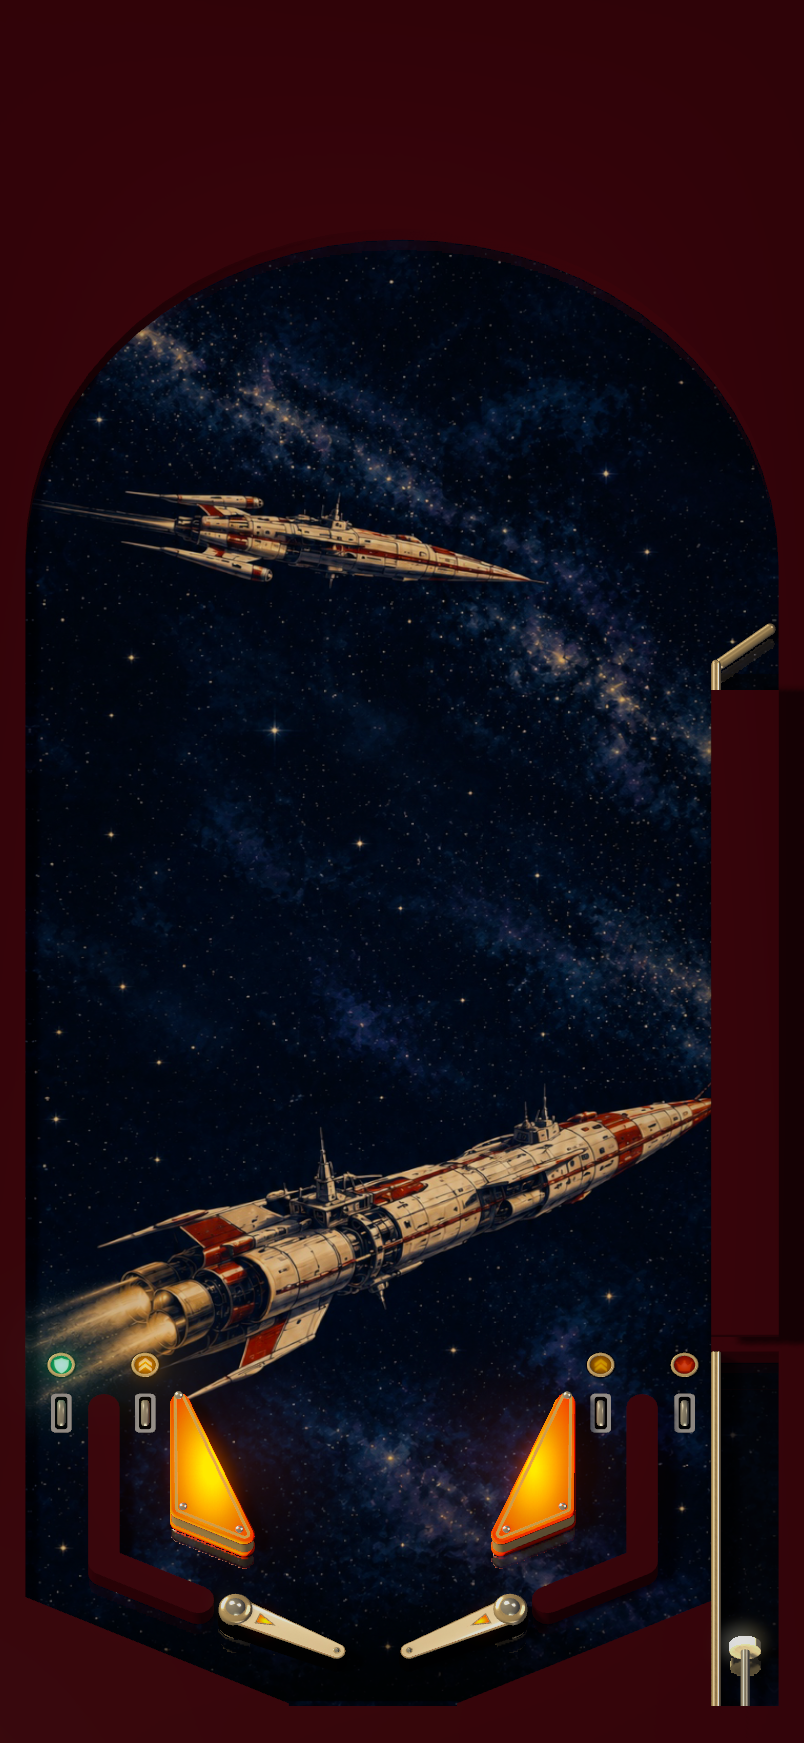
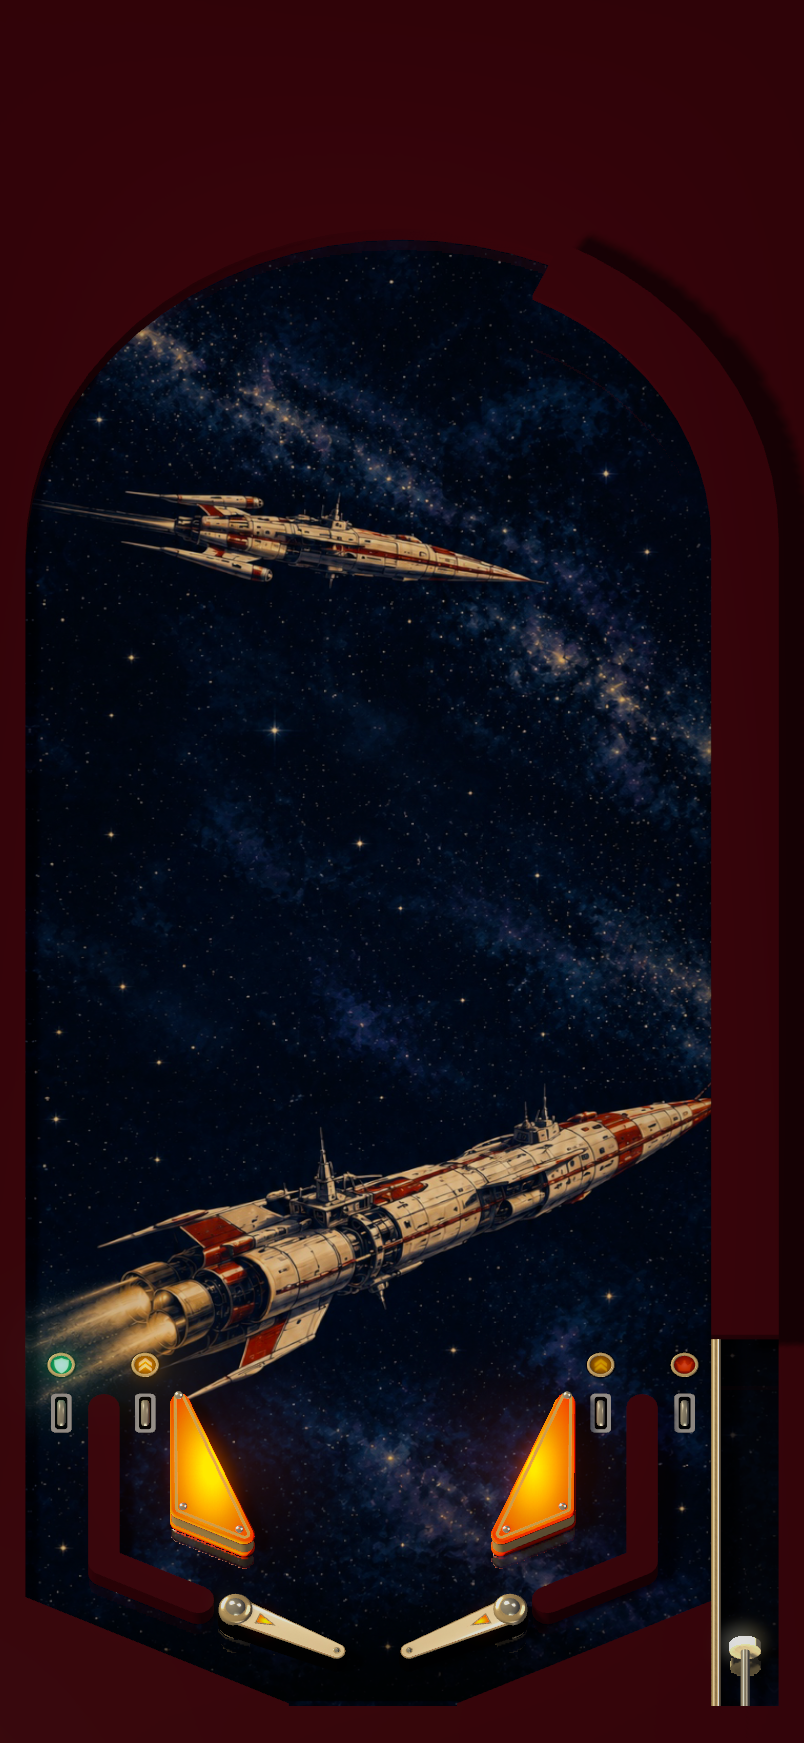
Run the tunnel roof round the arch, over an open lane
The cabinet cover's cutout now includes the whole shooter lane, so nothing
sits at wall height where the ball runs; only the roof covers it, at ball
height. The roof is one plate drawn with arcs: up the lane, then round the
arch to 65 degrees, as Space Cadet's launch cover does. Cover outlines drop
the corners that arcs repeat, so a whole circle is a stencil too.

Changed region(s): [[0.653, 0.1239, 1.0, 0.4028], [0.8706, 0.7435, 0.9639, 0.8055]]

diff --git a/tools/scene/compile_scenes.py b/tools/scene/compile_scenes.py
@@ -165,6 +165,17 @@ def walls_part(table, centred, skip=()):
     return data
 
 
+def closed_outline(points):
+    """An outline without repeated corners, as arcs that meet their neighbours or close a circle leave."""
+    out = []
+    for p in points:
+        if not out or math.dist(out[-1], p) > 1e-7:
+            out.append(p)
+    if len(out) > 1 and math.dist(out[0], out[-1]) < 1e-7:
+        out.pop()
+    return out
+
+
 def cover_part(table, centred, skip=()):
     """Each laser-cut cover: a plate over its outline with its stencils cut out, at its height."""
     data = mesher.MeshData()
@@ -177,8 +188,8 @@ def cover_part(table, centred, skip=()):
             wall = walls[cover['along']]
             outline = mesher.outline_along([centred(*p) for p in expand_points(wall['points'])], wall['radius'])
         else:
-            outline = [centred(*p) for p in expand_points(cover['points'])]
-        holes = [[centred(*p) for p in expand_points(s['points'])] for s in cover.get('stencils', [])]
+            outline = closed_outline([centred(*p) for p in expand_points(cover['points'])])
+        holes = [closed_outline([centred(*p) for p in expand_points(s['points'])]) for s in cover.get('stencils', [])]
         thickness = cover.get('thickness', cover['height'])
         mesher.slab(data, outline, holes, cover['height'] - thickness, thickness, 'cover')
     return data

diff --git a/Art/SCENES.md b/Art/SCENES.md
@@ -54,7 +54,7 @@ Also `<use prefab="…" at="x,y" name="value"…>` places a prefab with its vari
 
 ## Covers
 
-A cover is a laser-cut board: `<cover id height thickness points>` is a flat plate over its outline, at `height`, and each `<stencil points>` inside it is a hole cut through it (the stencil-for-boolean approach: draw the shape you want gone, and the compiler subtracts it). Stencils must not overlap one another; merge overlapping shapes into one outline. A cover without `thickness` stands on the floor. `along="<wall id>"` gives a cover the shape of that wall, its radius thick with round ends, for a guide that is board rather than hardware; give the wall `style="none"` so it stops the ball without being drawn. A plastic wall with `drawn="false"` is the same idea for a floor: the base's aprons stop the ball under the flippers, and the cabinet cover's cutout follows their slopes. The base's `cabinet` cover is the board's rim and everything past it, with the whole play area and the arch cut out; its `tunnel` roofs the shooter lane at ball height, so the ball disappears under it and comes out at the top; `railL` and `railR` are the inlane guides. Covers are drawn, not felt: the walls under them do the stopping. Their colour is the skin's `cover`.
+A cover is a laser-cut board: `<cover id height thickness points>` is a flat plate over its outline, at `height`, and each `<stencil points>` inside it is a hole cut through it (the stencil-for-boolean approach: draw the shape you want gone, and the compiler subtracts it). Outlines and stencils are point lists, so `arc(cx,cy,r,from,to,steps)` draws a curve and `arc(cx,cy,r,0,360,24)` a whole circle; the compiler drops the corners arcs repeat. Stencils must not overlap one another; merge overlapping shapes into one outline. A cover without `thickness` stands on the floor. `along="<wall id>"` gives a cover the shape of that wall, its radius thick with round ends, for a guide that is board rather than hardware; give the wall `style="none"` so it stops the ball without being drawn. A plastic wall with `drawn="false"` is the same idea for a floor: the base's aprons stop the ball under the flippers, and the cabinet cover's cutout follows their slopes. The base's `cabinet` cover is the board's rim and everything past it, with the whole play area and the arch cut out; its `tunnel` roofs the shooter lane at ball height, so the ball disappears under it and comes out at the top; `railL` and `railR` are the inlane guides. Covers are drawn, not felt: the walls under them do the stopping. Their colour is the skin's `cover`.
 
 ## Scripts
 
